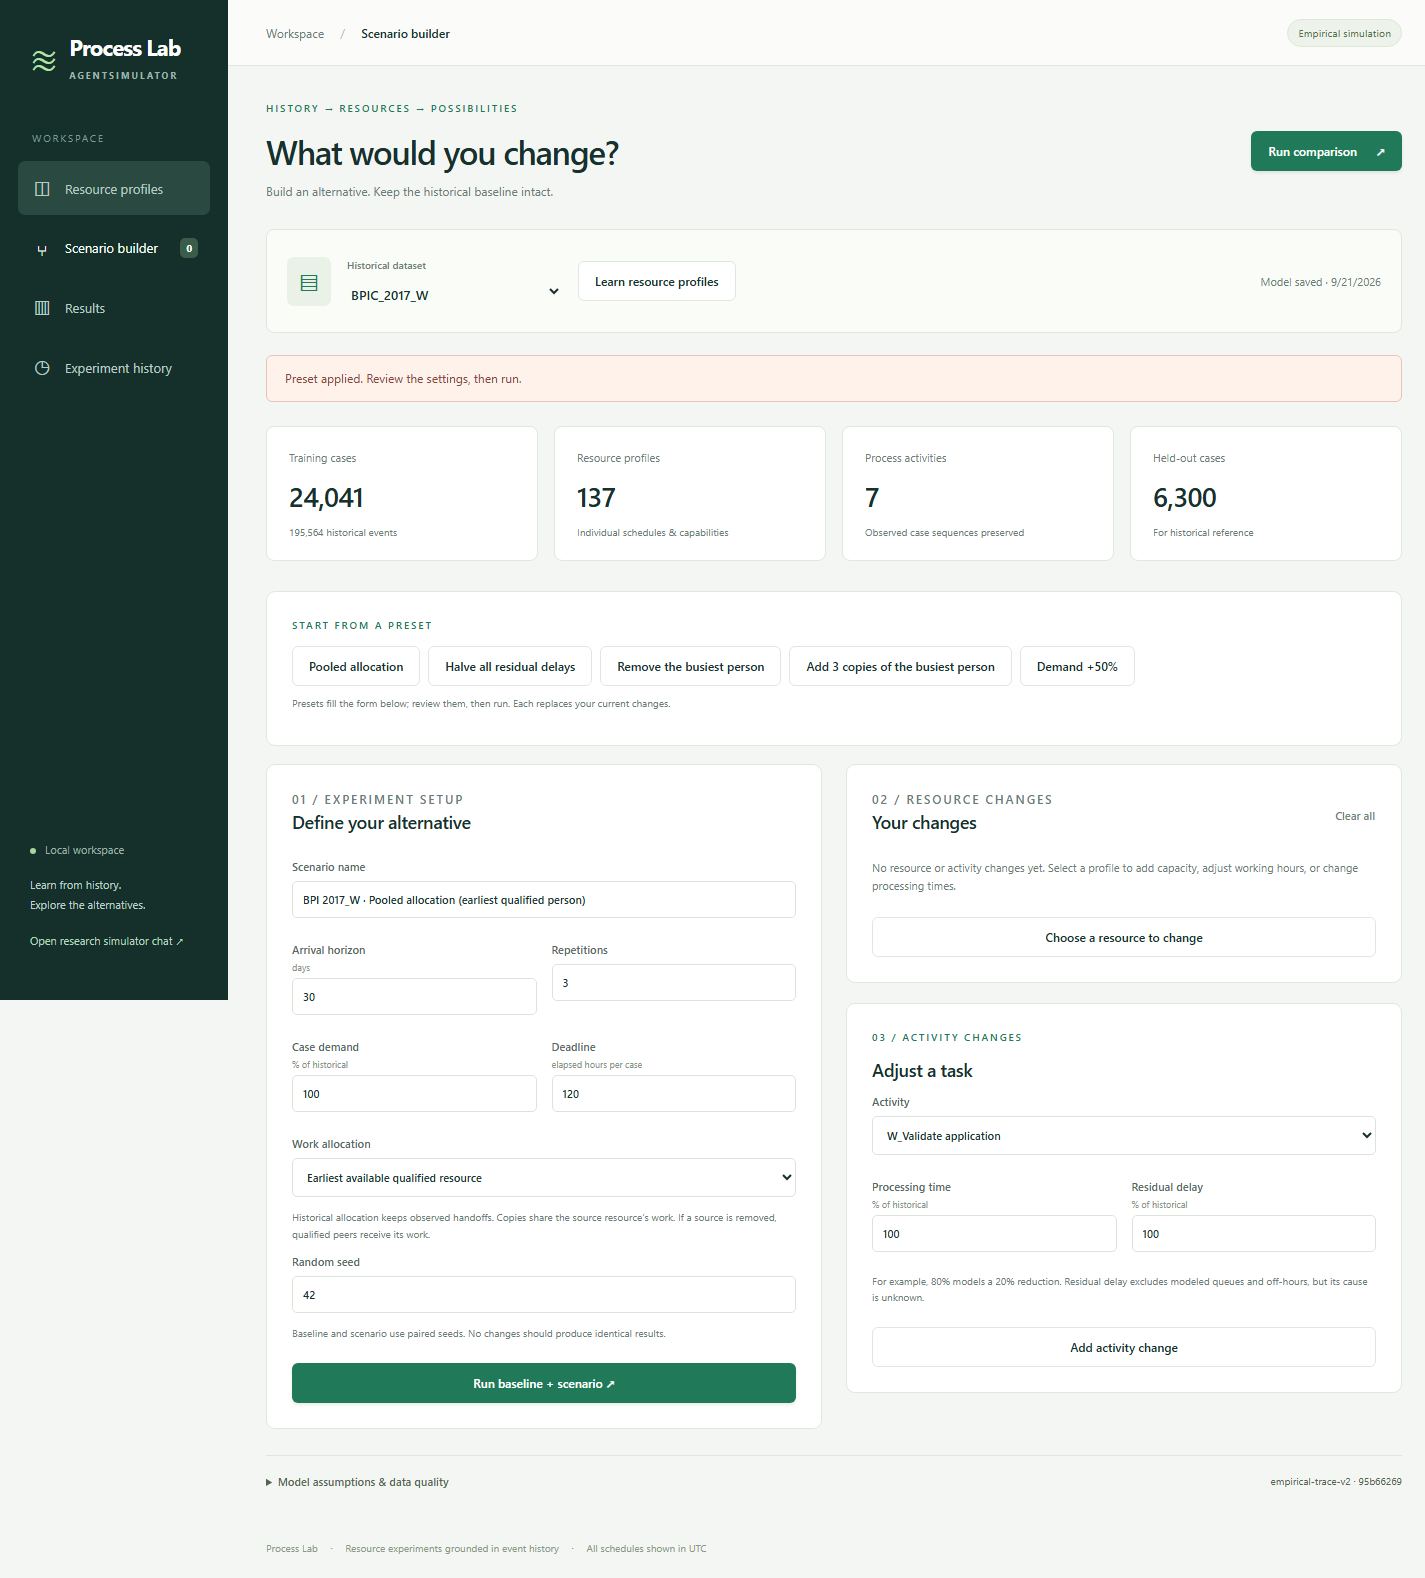
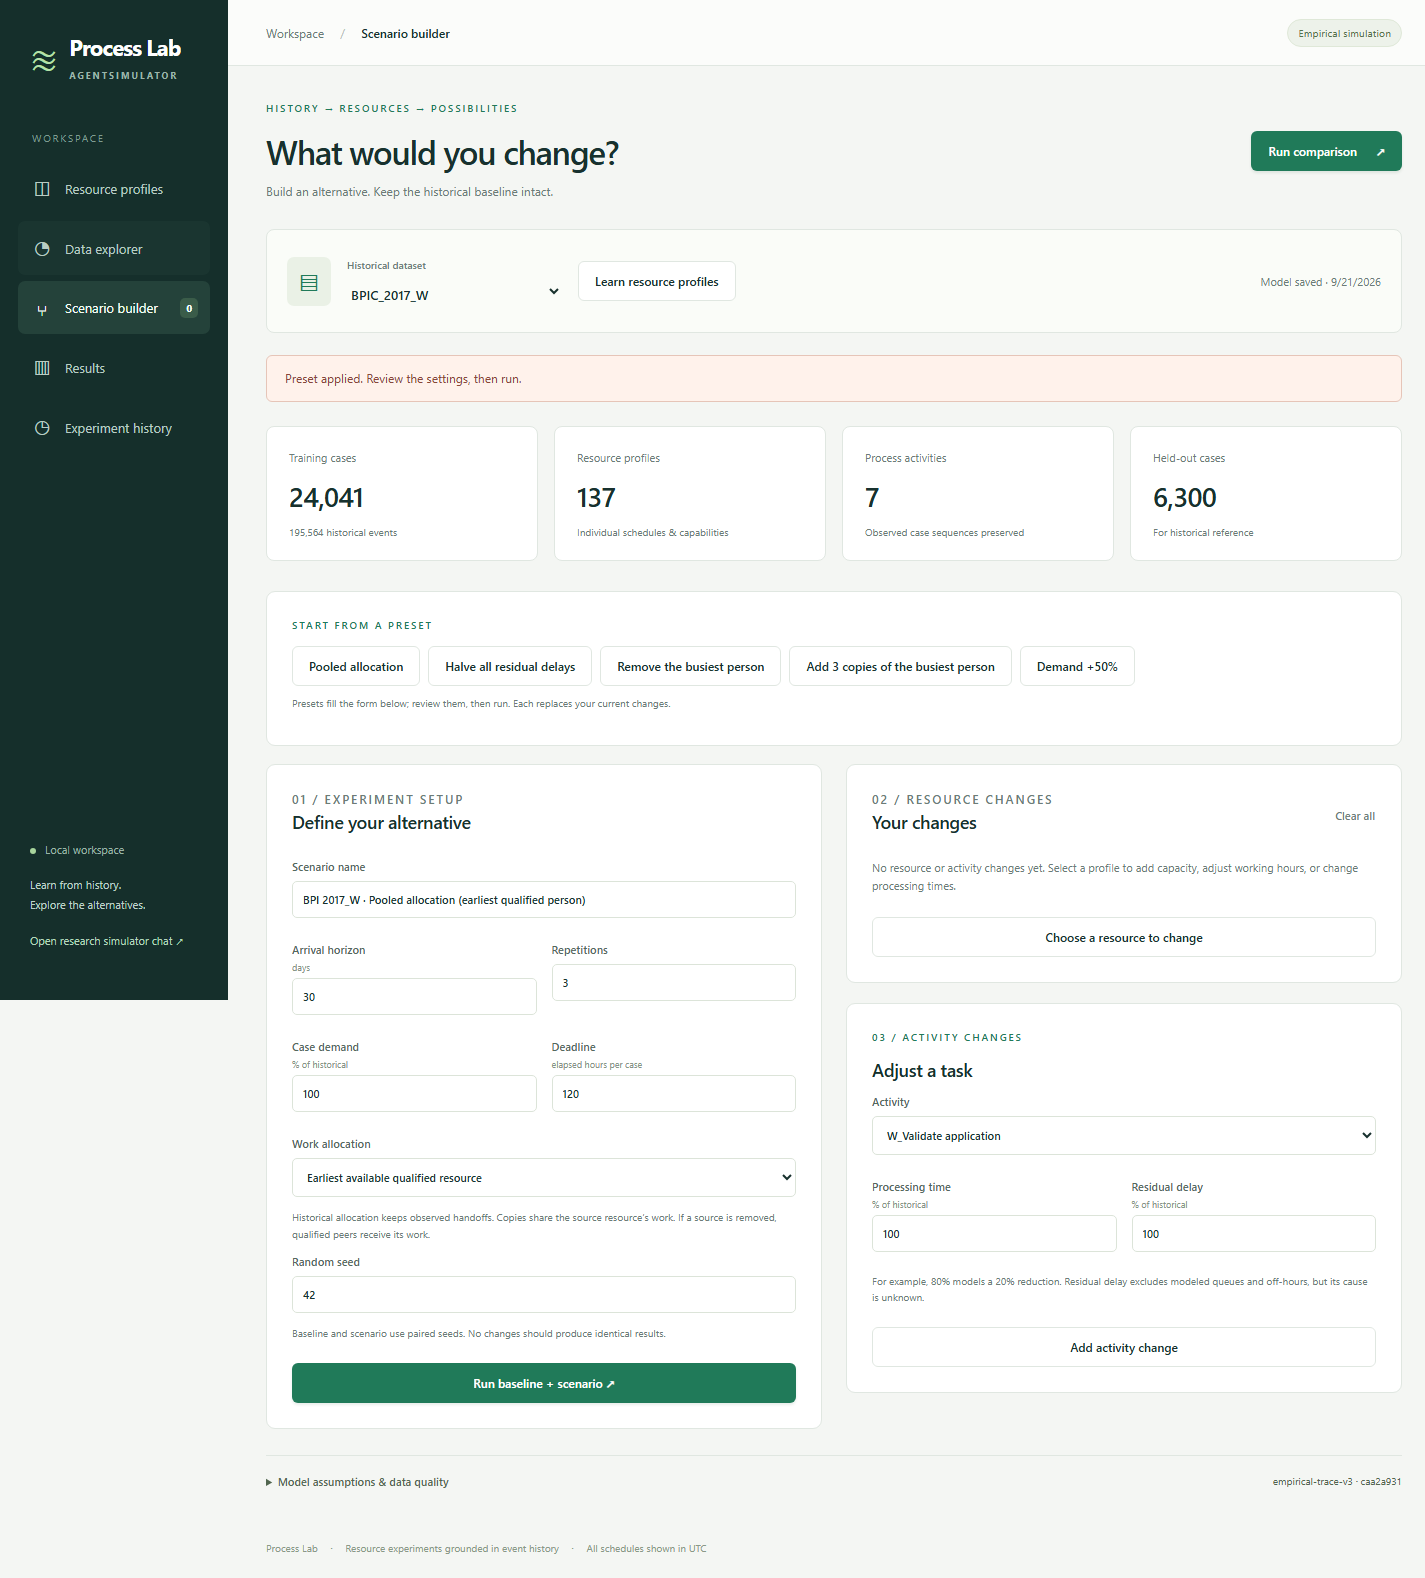
Docs: explorer and validation screenshots, updated baseline-gap findings

Changed region(s): [[0.0, 0.0932, 0.1544, 0.2484], [0.9572, 0.9316, 0.9881, 0.9626], [0.8954, 0.9316, 0.9263, 0.9626]]

diff --git a/PROJECT_GUIDE.md b/PROJECT_GUIDE.md
@@ -226,7 +226,7 @@ Pipeline (`AgentSimulator.execute_pipeline` → `discover_simulation_parameters`
 
 ### 5.2 Layer 2 — Process Lab, the workbench (`webapp/workbench/`)
 
-A **separate, deliberately simpler engine** built for interactive what-ifs and inspectability ("empirical trace-resampling", `engine = empirical-trace-v2`). It exists because the research engine takes minutes-to-hours and needs a temporal setup per run; the Lab learns once (~50 s on BPI 2017), caches an immutable model, and runs comparisons in **~10 s**.
+A **separate, deliberately simpler engine** built for interactive what-ifs and inspectability ("empirical trace-resampling", `engine = empirical-trace-v3`). It exists because the research engine takes minutes-to-hours and needs a temporal setup per run; the Lab learns once (~50 s on BPI 2017), caches an immutable model, and runs comparisons in **~10 s**.
 
 **Learning (`model.py: discover`)**
 1. Validate the log (no missing IDs, no negative durations; refuses an all-zero-duration log; needs ≥10 cases).
@@ -234,7 +234,7 @@ A **separate, deliberately simpler engine** built for interactive what-ifs and i
 3. **Per resource (137 profiles):** inferred calendar (earliest → latest observed hour per weekday, UTC), each activity's *empirical working-time samples* (off-calendar time removed), median/mean/p90, observed load %, top-5 handoffs.
 4. **Trace templates:** every training case's sequence `[activity, preferred resource, residual delay]` is frozen. Residual delay = time from the *first feasible working window after the case was ready* to the *observed start* — v2 fixes v1's bug (§9).
 5. **Arrivals:** for each weekday, the real list of per-day arrival-time offsets; simulation picks a historical day and reuses its arrivals.
-6. Stores assumptions, overlap %, and the held-out historical cycle-time (mean 281 h, median 219 h, p90 602 h) for a fidelity check.
+6. Stores assumptions, overlap %, and a fair held-out reference (cases with enough follow-up: mean 300 h, median 232 h, p90 626 h; all held-out cases would read 281 / 219 / 602 h because the log ends early), per-activity idle-time statistics, and the descriptive statistics behind the Data explorer.
 
 **Simulating (`simulation.py: simulate`)**
 - A **ready-time priority queue**: pop the earliest ready task, choose a resource, work it inside the calendar (pausing at shift end / weekends), release the resource, schedule the next task at `end + residual delay`.
@@ -251,7 +251,8 @@ A **separate, deliberately simpler engine** built for interactive what-ifs and i
 **The UI (`/`)** — a dark-themed, single-page app (no framework):
 - **Resource profiles:** searchable table + detail panel (activities, median times, weekly calendar, top handoffs), "add to scenario".
 - **Scenario builder:** the settings above plus a live "your changes" list and an activity editor.
-- **Results:** before → after cards with colour-coded deltas, a "where cases wait" bar chart per activity, per-resource utilisation table, a *baseline fidelity check* (simulated vs. held-out median), all-metrics table, JSON/CSV download.
+- **Data explorer:** the log itself, before any simulation: work vs. waiting, idle time per task, most common paths, hour-of-week heatmap, case duration by month, handover matrix.
+- **Results:** before → after cards with colour-coded deltas, a "where cases wait" bar chart per activity, per-resource utilisation table, a *validation panel* (simulated baseline vs. held-out cases that had time to finish, per-activity idle time, who holds the queues), all-metrics table, JSON/CSV download.
 - **Experiment history:** every job with status, and "reuse these settings".
 - Progress bar with reconnect, draft changes saved in `localStorage`, mobile layout, and a "Model assumptions & data quality" panel.
 
@@ -313,7 +314,7 @@ Five distance metrics, all "lower is better", against the held-out test log:
 | +2 copies of `User_1` | mean cycle 337.0 h | 336.8 h | −0.05 % · `User_1` utilisation 49 % → 16 % · deadline met 22.37 % → 22.41 % |
 | +3 copies of the busiest resource, `User_87` | mean cycle 337.0 h | 336.4 h | −0.19 % · queue wait −0.9 % · deadline met 22.37 % → 22.39 % |
 
-**Sanity check of the baseline vs. history** (the Lab's own fidelity panel): simulated mean/median/p90 cycle time = 337 / 239 / 736 h vs. held-out real 281 / 219 / 602 h → **+20 % / +9 % / +22 %**. **That comparison is partly unfair:** the real log stops on 1 Feb 2017, so late-arriving held-out cases are cut short and look faster. Against a fair reference (held-out cases with ≥75 days of follow-up: 312 / 238 / 646 h) the simulation is **+8 % / +0.4 % / +14 %**. Median is right; the mean and tail are too slow because a few people build unrealistic multi-week queues. Details, week-by-week evidence and the reproducible script: `WORKBENCH.md` (“Is the ~20 % baseline gap real?”) and `scripts/check_baseline_censoring.py`.
+**Sanity check of the baseline vs. history** (the Lab's validation panel): simulated mean/median/p90 cycle time = 337 / 239 / 736 h. Against *all* held-out cases (281 / 219 / 602 h) that looks like +20 % / +9 % / +22 %, but that reference is unfair: the real log stops on 1 Feb 2017, so late-arriving cases are cut short. Against held-out cases that had enough time to finish (300 / 232 / 626 h, 3,937 cases) the baseline is **+12 % / +3 % / +18 %**. The median is right; the mean and tail are inflated mainly by **0.1 % of recorded task durations** (195 of 195,564 hold 38 % of all working time, up to 531 hours; probably work items left open). Capping them at 24 working hours turns the gap into -3 % / -5 % / -6 % and cuts the top-3 queue share from 48 % to 14 %. Details and reproducible scripts: `WORKBENCH.md` ("How well does the baseline match history?"), `scripts/check_baseline_censoring.py`, `scripts/diagnose_baseline_gap.py`.
 
 ### 6.3 What-if runs I made for this guide (ad-hoc, **not saved** to `runs/`; 30 days, 2 repetitions)
 
@@ -349,7 +350,7 @@ Baseline for these: mean cycle 327 h, mean queue wait 61.5 h, mean residual dela
 
 ## 8. Known limitations (say these first — it makes the rest credible)
 
-- **Not a forecast.** The Lab shows a ~20 % overshoot vs. history, but about half of that is the real log ending early. Against a fair reference the baseline is +8 % mean, ~0 % median, +14 % p90 (the tail is inflated by a few overloaded resources). Use it to compare scenarios, not to predict days.
+- **Not a forecast.** Against a fair reference the baseline is +12 % mean, +3 % median, +18 % p90 (the old +20 % included an unfair, cut-short reference). Most of the remaining overshoot comes from a few extreme recorded durations, not yet corrected in the model. Use it to compare scenarios, not to predict days.
 - **One task at a time, no parallel branches, no batching, fatigue or learning** — although 15.4 % of real BPI 2017 items overlap. (The research engine allows multitasking only for activities that historically never wait.)
 - **Calendars are inferred, in UTC.** "Earliest to latest observed hour per weekday" is not a roster; one Sunday evening event gives someone a Sunday window (e.g. `User_2`). Dutch local time is UTC+1/+2, so displayed hours are shifted.
 - **Cloning a resource copies the source's behaviour.** A real new hire wouldn't behave identically.
@@ -370,17 +371,17 @@ Baseline for these: mean cycle 327 h, mean queue wait 61.5 h, mean residual dela
 3. The stale experiment and its v1 model were removed. The v1 bug is now documented in `WORKBENCH.md` ("A bug caught by sanity-checking against the data"). The mislabelled "busiest resource" run (it cloned the alphabetically-first `User_1`, 740 events) was re-run with the real busiest, `User_87` (7,331 events): mean cycle time 337.0 h to 336.4 h (-0.19 %), queue wait -0.9 %.
 4. The README now leads with the findings, a results screenshot and the limitations.
 5. Scenario presets (pooled allocation, halve delays, remove/copy the busiest person, demand +50 %) were added to the Scenario builder.
+6. The **Data explorer** tab (work vs. waiting, idle time per task, common paths, hour-of-week heatmap, cases by month, handover matrix) and a **validation panel** on every result (fair reference, per-activity idle time, who holds the queues) were added; model version 3.
+7. **CI** runs the tests and a JavaScript syntax check on every push (`.github/workflows/ci.yml`).
 
 **Still open**
 - **Keys:** `.env` holds ~13 credentials for several providers. It is git-ignored, but rotate any that were ever pasted into a chat, log or screenshot, and delete the ones this project does not use (it needs only DeepSeek and optionally LangSmith).
 - **Calendars are shown in UTC.** Dutch local time is UTC+1/+2. Deliberately not changed: it would need a model version bump, a re-learn, and re-running every number here.
 - **BPIC_2019** is listed but disabled; keep it as a documented data-quality lesson.
 - **Research-engine cycle-time gap on BPI 2017** (section 6.1): try the paper's exact filtering, or trim the >7-day work items.
-- **CI:** GitHub Actions running `pytest` and `node --check`.
 - **Warm-up:** pre-load the queue so short-horizon backlog is meaningful.
 - **Auto-configuration instability** on LoanApp (report the spread or fix seeds).
-- **Exploration page** in the Lab (variant explorer, waiting-time chart, hour-of-week heatmap, handover network).
-- **Fidelity panel should use the fair reference** (held-out cases with enough follow-up). Tested and confirmed in `WORKBENCH.md`; not yet implemented because it changes the stored model (version bump, re-learn, re-run experiments). Also unexplained: real cycle times fall for cases arriving in Nov-Dec 2016 beyond what censoring can produce (seasonality vs drift cannot be separated with one year of data).
+- **Apply the duration fix to the model** (cap working time, treat the excess as delay) as a deliberate model-version change; it changes every headline number. Also unexplained: real cycle times fall for cases arriving in Nov-Dec 2016 beyond what cut-off can produce (seasonality vs drift cannot be separated with one year of data).
 
 ---
 

diff --git a/README.md b/README.md
@@ -5,6 +5,8 @@ see which changes actually matter.**
 
 ![Process Lab results: pooled allocation vs. historical baseline on BPI 2017](docs/screenshots/results.png)
 
+![Data explorer: work vs. waiting, common paths, working rhythm, handovers](docs/screenshots/explorer.png)
+
 ## What I found (BPI Challenge 2017, 31,500 loan applications, 149 people)
 
 1. **A typical case takes 9.7 days but needs only ~25 minutes of hands-on work** — 0.9% of
@@ -21,11 +23,11 @@ Full analysis, numbers and reproduction steps: **[PROJECT_GUIDE.md](PROJECT_GUID
 
 ## Honest limitations
 
-- **Not a forecast.** With no changes the simulated baseline reads ~20% slower than held-out
-  history (337 h vs 281 h), but about half of that is the real log ending early, which cuts late
-  cases short. Against a fair reference the gap is +8% mean, ~0% median and +14% at the tail (a
-  few overloaded people build unrealistic queues). Use it to *compare* scenarios, not to predict
-  days. Evidence: [WORKBENCH.md](WORKBENCH.md) and `scripts/check_baseline_censoring.py`.
+- **Not a forecast.** Every result shows the simulated baseline against real held-out cases that
+  had time to finish: +12% mean, +3% median, +18% at the tail. Most of the remaining overshoot traces
+  to 0.1% of recorded task durations (up to 531 working hours, probably items left open) that block
+  people for weeks in the simulation; capping them brings the gap to about -3%. Use it to *compare*
+  scenarios, not to predict days. Evidence: [WORKBENCH.md](WORKBENCH.md).
 - One task at a time per resource (15% of real work items overlap), no batching or fatigue.
 - Working hours are inferred from observed activity and shown in UTC.
 - Cloning a person copies the original's behaviour; a real new hire would differ.
@@ -38,7 +40,7 @@ cd AgentSimulator
 ./start-workbench.ps1          # Process Lab at http://127.0.0.1:8000, no API key needed
 ```
 
-Pick **BPIC_2017_W** → **Learn resource profiles** → open **Scenario builder** and start from a
+Pick **BPIC_2017_W** → **Learn resource profiles** → look around the **Data explorer** → open **Scenario builder** and start from a
 preset (pooled allocation, halve delays, remove the busiest person, demand +50%). Each run
 compares a paired baseline and scenario and saves settings, seeds and downloadable event logs.
 See [WORKBENCH.md](WORKBENCH.md) for the method, assumptions, API, and a write-up of a bug caught
@@ -68,7 +70,7 @@ the guide):
   worker with crash recovery; nothing is overwritten.
 - The chat agent never executes anything the LLM proposes directly: schema validation, path
   containment, human confirmation, no shell, bounded retries/timeouts.
-- 28 tests (`python -m pytest`), including a full LoanApp run of the research engine.
+- 32 tests (`python -m pytest`), run by GitHub Actions on every push, including a full LoanApp run of the research engine.
 - Data: `raw_data/` is not tracked (BPI logs are large). Convert the public BPI 2017 XES with
   `raw_data/xes_to_csv.py --w-only`. BPI 2019 is listed but disabled in the Lab because its
   export has only zero-duration events.
